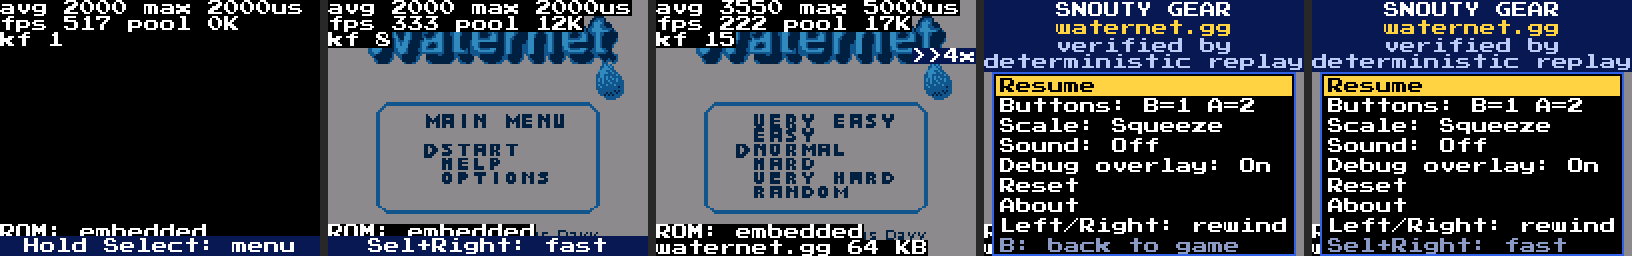
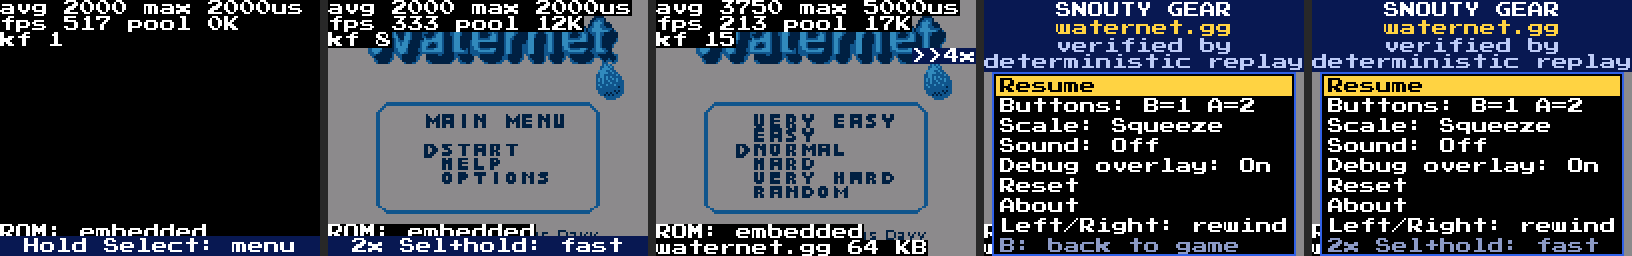
snouty-gear: double tap docs, preview script and bench status
RUNNING.md, README and CLAUDE.md describe the double tap; ff_play.json
double taps (and lets one window run out); the preview image shows the
new hint; PLAN.md records the preview exports and the Waternet bench
(4 frames in all 293 fast-forward updates, max 6.79 ms, 0 over).

Changed region(s): [[0.8125, 0.9062, 1.0, 1.0], [0.2188, 0.9375, 0.4062, 1.0], [0.4375, 0.0, 0.4688, 0.125]]

diff --git a/carts/snouty-gear/PLAN.md b/carts/snouty-gear/PLAN.md
@@ -786,7 +786,11 @@ silent there. Adrian: keep sound off by default, make it work.
 ## Fast forward (2026-10-04)
 
 Gear track of root docs/FAST_FORWARD.md (branch `emu-ff-gear`). Adrian:
-hold-to-fast-forward, the usual emulator feature.
+hold-to-fast-forward, the usual emulator feature. Shipped first with a
+Select+Right chord (tag `snouty-gear/ff`, recorded below); Adrian then
+made the trigger a Select double tap with the second press held ("Double
+tap" at the end of this section). Stepping, sound, indicator and the
+determinism tests are unchanged by that.
 
 - Input (`frontend/input.zig`, `GameInput.fast`): Right pressed while
   Select is held starts it, and it lasts while both stay held; no menu,
@@ -853,3 +857,33 @@ hold-to-fast-forward, the usual emulator feature.
   "4 per update" read as the 4x cap); the menu has no free line, so the
   footer alternates instead of a new row; the indicator moves to y 24
   while the debug overlay (on by default) covers the top rows.
+
+### Double tap (2026-10-04, after `snouty-gear/ff`)
+
+- Input (`frontend/input.zig`): a Select press released before the 500 ms
+  hold opens `ff_tap_window` (12 frames, 200 ms, `frontend/tuning.zig`);
+  a second press inside it starts fast forward at once, lasting while
+  Select is held; that press never runs the menu timer and its release
+  delivers nothing. A window that runs out does nothing (Gear's Select
+  tap is reserved, so nothing is held back). Start during the window or
+  fast forward cancels. Right and the rest reach the game again; Select
+  is the only masked button (it was never in the pad). The Right masking
+  and suppress of the chord are gone.
+- Hints: "2x Sel+hold: fast" in the play strip (after "Hold Select:
+  menu") and in the menu footer's turn; `docs/ff_2026-10-04.png` redone.
+- Tests: `tests/input_unit.zig` rewritten, 8 `input:` tests (menu hold;
+  double tap and hold, d-pad passes, release delivers nothing and opens
+  no window; window's last frame counts and one later is a plain press;
+  long hold opens no window; Select+Right is game input; Start in the
+  window and in fast forward; Start+Select on the hold; `suppress_held`).
+  Cart suite 117/117; `zig build test` exit 0; `check-float` PASS.
+- Preview (`tools/scripts/ff_play.json` now double taps: Select 680-682
+  then 688-860, 900-902 then 906-940, and 960-962 then 980-999 past the
+  window): `debug_ff_frames` 4 on 688-860 and 906-940, 1 elsewhere
+  (including 980-999), `debug_frame_count` 616 -> 1308 over 687-860,
+  `debug_menu_opens` 0.
+- badge-bench, Waternet, m2_play's presses then `SELECT:680-682,
+  SELECT:688-980` (`--no-config --frames 1000 --lcd`): whole run mean
+  4.25 / p95 6.68 / max 6.96 ms, 0 over; fast-forward updates 688-980:
+  mean 6.40 / p95 6.79 / max 6.79, 0 over, 4 frames in all 293 updates
+  (temporary `cart.trace` build). `--lcd` frame 990 shows no `>>4x` left.

diff --git a/carts/snouty-gear/docs/RUNNING.md b/carts/snouty-gear/docs/RUNNING.md
@@ -215,31 +215,33 @@ Controls (badge / simulator key):
 | Start        | Start                        | nothing                          |
 | Select tap   | nothing (reserved)           | Resume                           |
 | Select hold 500 ms | opens the menu         | -                                |
-| Select, then Right, both held | fast forward (up to 4x, silent, `>>4x` top right) | - |
+| Select tap, then press and hold | fast forward (up to 4x, silent, `>>4x` top right) | - |
 
 Start+Select (exit to the OS menu) and the joystick click belong to the OS.
 
 On-screen hints (`lib/hint.zig`, shared with Boy, Genesis and Lynx): the
 splash and the first 3 s of play show "Hold Select: menu" (a strip at the
-bottom, then "Sel+Right: fast" for 3 s more, gone at the first button
+bottom, then "2x Sel+hold: fast" for 3 s more, gone at the first button
 press); in the menu the bottom line on
 Resume reads "Left/Right: rewind" ("Rewind: no history" before the first
 keyframe; the `Scrub:` readout once parked or on other rows) and the
 footer reads "B: back to game", taking turns every 2 s with
-"Sel+Right: fast".
+"2x Sel+hold: fast".
 
 ### Fast forward
 
-Hold Select, then hold Right: the game runs up to four frames per badge
+Tap Select, then press it again within 200 ms and hold it: the game runs up to four frames per badge
 frame (each update steps unrendered frames until four ran or about 13 ms
 of the 16.7 ms went, then one rendered frame; knobs `ff_max_frames` and
 `ff_budget_us` in `cart/src/frontend/tuning.zig`), silent, with `>>4x`
 (the frames that update) in the top right corner, under the debug overlay
-while that is on. Right does not reach the game meanwhile. Let go of
-Right: back to 1x, and the Select hold that opens the menu counts from
-zero again. Let go of Select: back to 1x, no Select tap, and a Right
-still held waits for its release. Start cancels it, as it cancels the
-menu hold (Start+Select is the OS's). The scrubber records every frame,
+while that is on. The d-pad and buttons reach the game as usual. Let go
+of Select: back to 1x, nothing delivered. The second press never runs
+the menu timer; a single long hold still opens the menu at 500 ms. A
+Select tap with no second press within `ff_tap_window` (12 frames,
+`tuning.zig`) does nothing, as before (the Game Gear has no Select).
+Start during that window or during fast forward cancels it
+(Start+Select is the OS's). The scrubber records every frame,
 so the history holds the fast-forwarded frames. In the simulator it is
 always 4x (no real clock there). `tools/scripts/ff_play.json` walks it
 in the headless preview (`--sample debug_frame_count,debug_ff_frames`:

diff --git a/carts/snouty-gear/CLAUDE.md b/carts/snouty-gear/CLAUDE.md
@@ -55,9 +55,10 @@ longer explanations, this one summarises.
   lines 0..143 are squeezed to 128 rows (`y - y / 9`, every ninth dropped).
 - Inputs `cart.controls.*`; the OS owns Start+Select (exit) and click.
   Mapping (SPEC.md section 5): d-pad, badge B = button 1, badge A = button
-  2, Start; Select hold 500 ms = emulator menu (M2); Select then Right,
-  both held = fast forward (`input.GameInput.fast`, main.zig `run_frame`,
-  knobs in `frontend/tuning.zig`; docs/FAST_FORWARD.md at the root).
+  2, Start; Select hold 500 ms = emulator menu (M2); Select double tap
+  with the second press held = fast forward (`input.GameInput.fast`,
+  main.zig `run_frame`, knobs in `frontend/tuning.zig`;
+  docs/FAST_FORWARD.md at the root).
 
 ## Building
 

diff --git a/carts/snouty-gear/README.md b/carts/snouty-gear/README.md
@@ -9,8 +9,8 @@ the emulator menu; on the badge the PSG is synthesised in full (three
 tones and noise, streamed at 44.1 kHz to the new firmware's audio ring;
 off at boot, the menu's Sound row turns it on), in the simulator it plays
 as one voice. Left/Right in
-the menu scrub time back and forth, as in Snouty Boy. Hold Select, then
-Right, to fast forward (up to 4x, silent, `>>4x` in the corner).
+the menu scrub time back and forth, as in Snouty Boy. Tap Select, then
+press and hold it, to fast forward (up to 4x, silent, `>>4x` in the corner).
 
 Status: M3 (time scrubber) done; history in PLAN.md. The console is
 emulated (Z80, VDP, Sega mapper, ports, PSG) behind a boot splash, a menu
